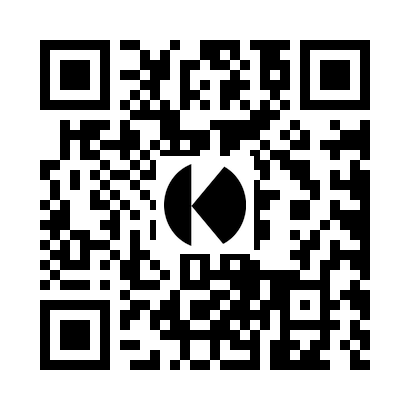
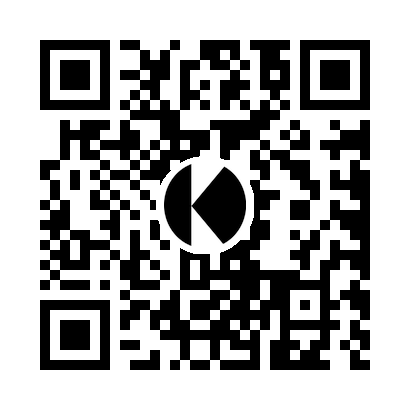
Fix QR code scanning issue by using circular background instead of square
The square white background behind the logo was interfering with the QR code
pattern, making the codes unscannable. Changed to a circular background that
matches the logo shape and doesn't disrupt the QR data pattern.

🤖 Generated with [Claude Code](https://claude.com/claude-code)

diff --git a/generate_qr_with_logo.py b/generate_qr_with_logo.py
@@ -21,16 +21,18 @@ def generate_qr_with_logo(url, output_file):
     logo_size = int(qr_img.size[0] * 0.20)
     logo = logo.resize((logo_size, logo_size), Image.LANCZOS)
 
-    # Create a white square background for the logo (slightly larger than logo)
-    white_square_size = int(logo_size * 1.2)  # 20% larger than logo
-    white_square = Image.new("RGBA", (white_square_size, white_square_size), (255, 255, 255, 255))
-    
+    # Create a white circular background for the logo (slightly larger than logo)
+    circle_size = int(logo_size * 1.2)  # 20% larger than logo
+    white_circle = Image.new("RGBA", (circle_size, circle_size), (0, 0, 0, 0))
+    draw = ImageDraw.Draw(white_circle)
+    draw.ellipse([0, 0, circle_size, circle_size], fill=(255, 255, 255, 255))
+
     # Calculate positions
-    square_pos = ((qr_img.size[0] - white_square_size) // 2, (qr_img.size[1] - white_square_size) // 2)
+    circle_pos = ((qr_img.size[0] - circle_size) // 2, (qr_img.size[1] - circle_size) // 2)
     logo_pos = ((qr_img.size[0] - logo_size) // 2, (qr_img.size[1] - logo_size) // 2)
 
-    # Paste white square, then logo onto QR code
-    qr_img.paste(white_square, square_pos, white_square)
+    # Paste white circle, then logo onto QR code
+    qr_img.paste(white_circle, circle_pos, white_circle)
     qr_img.paste(logo, logo_pos, logo if logo.mode == "RGBA" else None)
 
     # Save the final image
